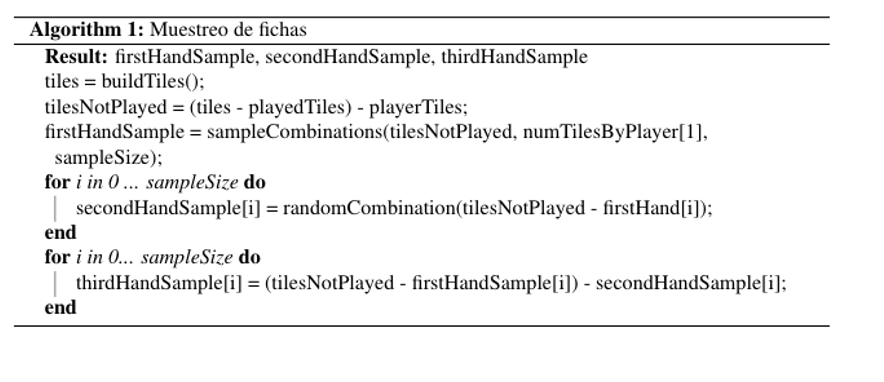
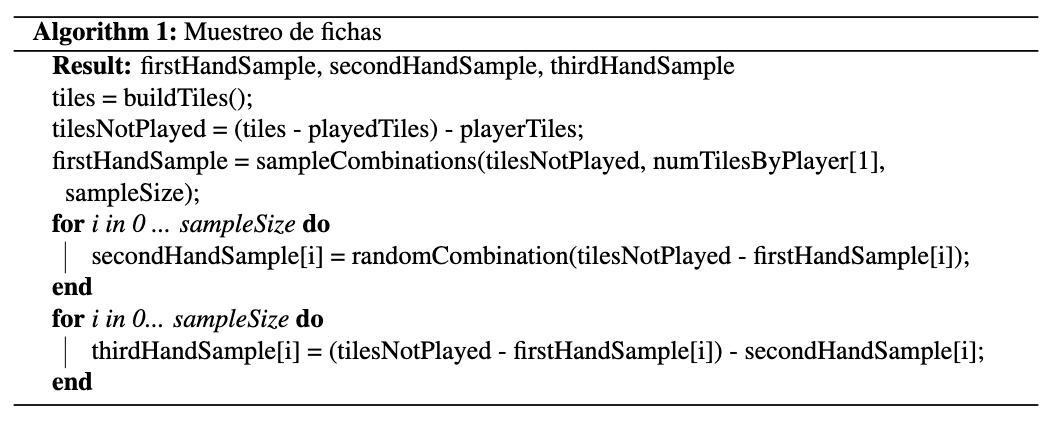
feat: correciones capitulo 4

Changed region(s): [[0.0, 0.0288, 0.9774, 0.8927], [0.0, 0.9215, 0.9774, 0.9503], [0.9163, 0.1152, 0.9774, 0.144]]

diff --git a/src/Chapters/4.implementacion.tex b/src/Chapters/4.implementacion.tex
@@ -57,7 +57,7 @@ repartir las fichas que no se conocen.
 
 \begin{figure}[ht]
    \begin{center}
-      \hbox{\hspace{-1.5em} \includegraphics[scale=0.9]{codigo_muestreo.png}}
+      \hbox{\hspace{-1.5em} \includegraphics[scale=0.7]{codigo_muestreo.png}}
       \caption{Algoritmo de muestreo. Se generan un conjunto de escenarios consistentes con las fichas observadas}
       \label{CM}
    \end{center}
@@ -72,8 +72,8 @@ la resta de conjuntos, como se utiliza en el lenguaje Python. Posteriormente se
 genera el arreglo \textit{firstHandSample}, que contiene las fichas del primer
 jugador a la derecha para distintas reparticiones. Se generan la cantidad de
 reparticiones definidas en \textit{sampleSize}. Por último, se generan los
-arreglos de fichas para el segundo y tercer jugador removiendo las fichas de las
-manos de los demás jugadores.
+arreglos de fichas para \textit{secondHandSample}  y \textit{thirdHandSample}
+removiendo las fichas de las manos de los demás jugadores.
 
 % \noindent El Grupo Huatusco se ha reunido por más de quince años intentando responder la pregunta de por qué México no crece a mayores tasas.
 
